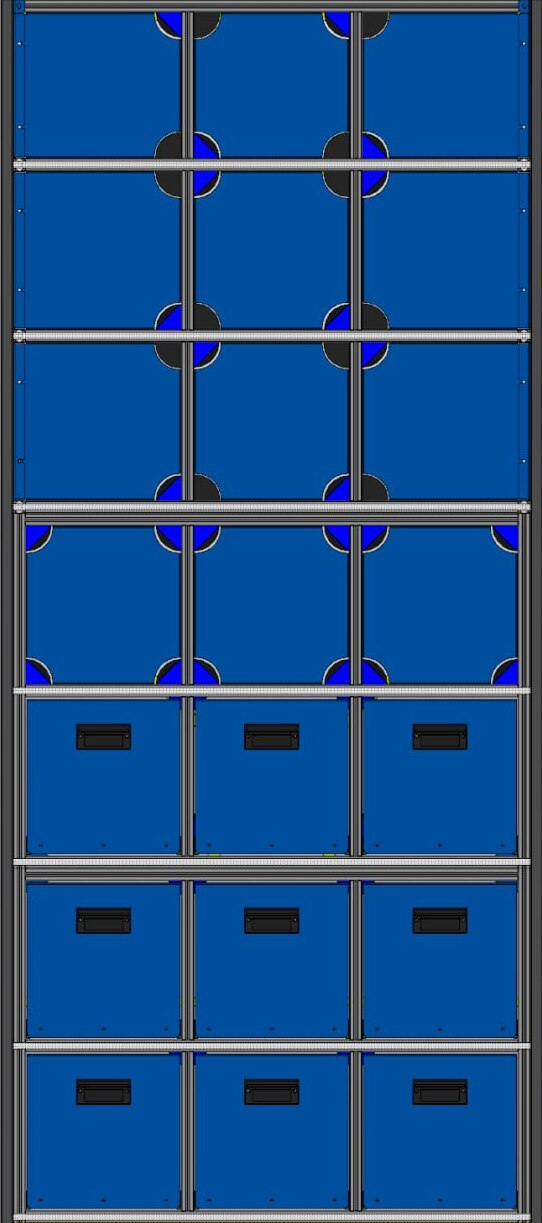
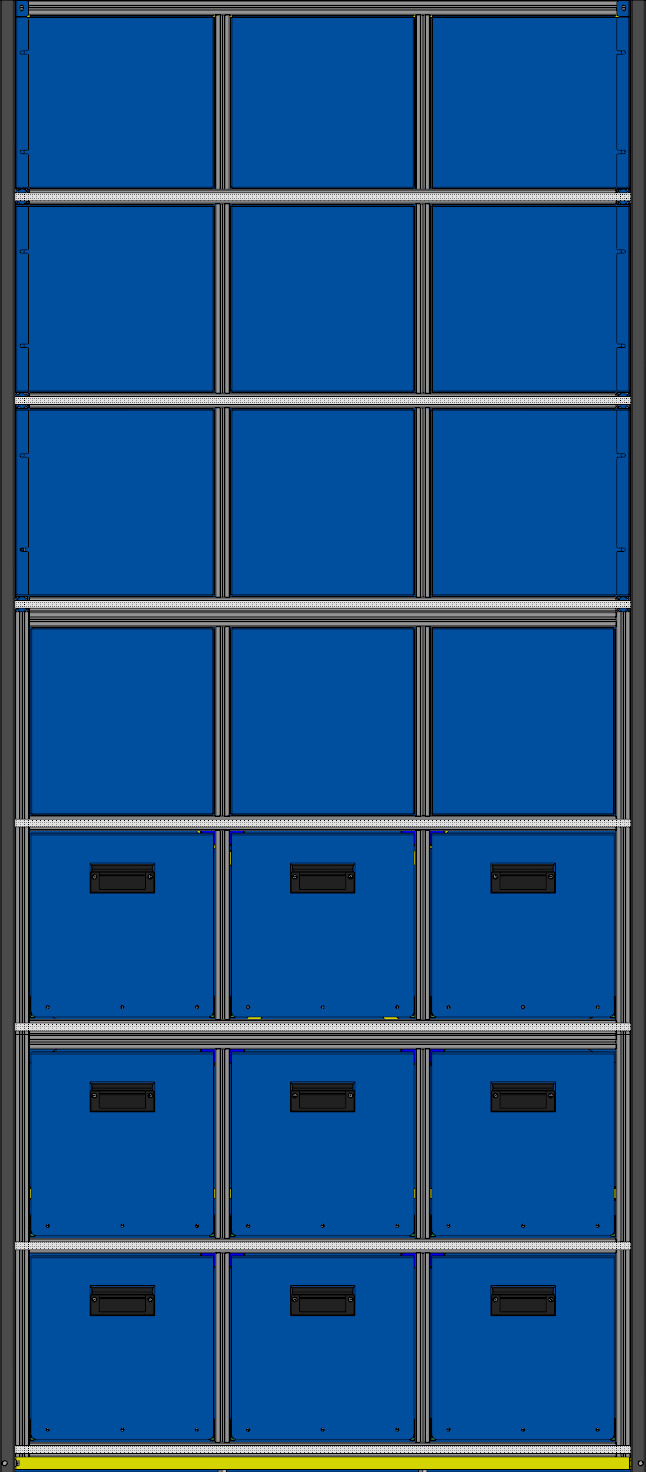
New Image

Changed region(s): [[0.0, 0.0, 1.0, 1.0]]

diff --git a/WMS.Desktop/Views/MenuView/HistoryView.xaml b/WMS.Desktop/Views/MenuView/HistoryView.xaml
@@ -23,32 +23,41 @@
 
             <Grid.ColumnDefinitions>
                 <ColumnDefinition Width="49*"/>
-                <ColumnDefinition Width="2*"/>
                 <ColumnDefinition Width="15*"/>
                 <ColumnDefinition Width="2*"/>
                 <ColumnDefinition Width="15*"/>
+                <ColumnDefinition Width="2*"/>
                 <ColumnDefinition Width="17*"/>
             </Grid.ColumnDefinitions>
 
             <TextBox 
                 Grid.Column="0"
-                Margin="0,5,0,5" 
+                Margin="0,5,5,5" 
                 Tag="Поиск:"
                 Style="{StaticResource SearchTextBox}"
                 Text="{Binding SearchHistory, UpdateSourceTrigger=PropertyChanged}">
             </TextBox>
 
+            <ComboBox Grid.Column="1" 
+                      ItemsSource="{Binding Type}"
+                      Tag="Тип операции:"
+                      SelectedItem="{Binding SelectedOperationType}"
+                      Margin="5"
+                      VerticalContentAlignment="Center"
+                      HorizontalContentAlignment="Center">
+            </ComboBox>
+
             <TextBlock
-                Grid.Column="1"
+                Grid.Column="2"
                 VerticalAlignment="Center"
-                HorizontalAlignment="Right"
+                HorizontalAlignment="Center"
                 Text="От:"
                 Foreground="White"
                 FontSize="20"/>
 
             <DatePicker
-                Grid.Column="2"
-                Margin="5,0,0,0"
+                Grid.Column="3"
+                Margin="0,0,5,0"
                 Height="35" 
                 FontSize="20"
                 VerticalContentAlignment="Center"
@@ -57,16 +66,15 @@
             </DatePicker>
 
             <TextBlock
-                Grid.Column="3"
+                Grid.Column="4"
                 VerticalAlignment="Center"
-                HorizontalAlignment="Right"
+                HorizontalAlignment="Center"
                 Text="До:"
                 Foreground="White"
                 FontSize="20"/>
 
             <DatePicker
-                Grid.Column="4"
-                Margin="5,0,0,0"
+                Grid.Column="5"
                 Height="35" 
                 FontSize="20"
                 VerticalContentAlignment="Center"
